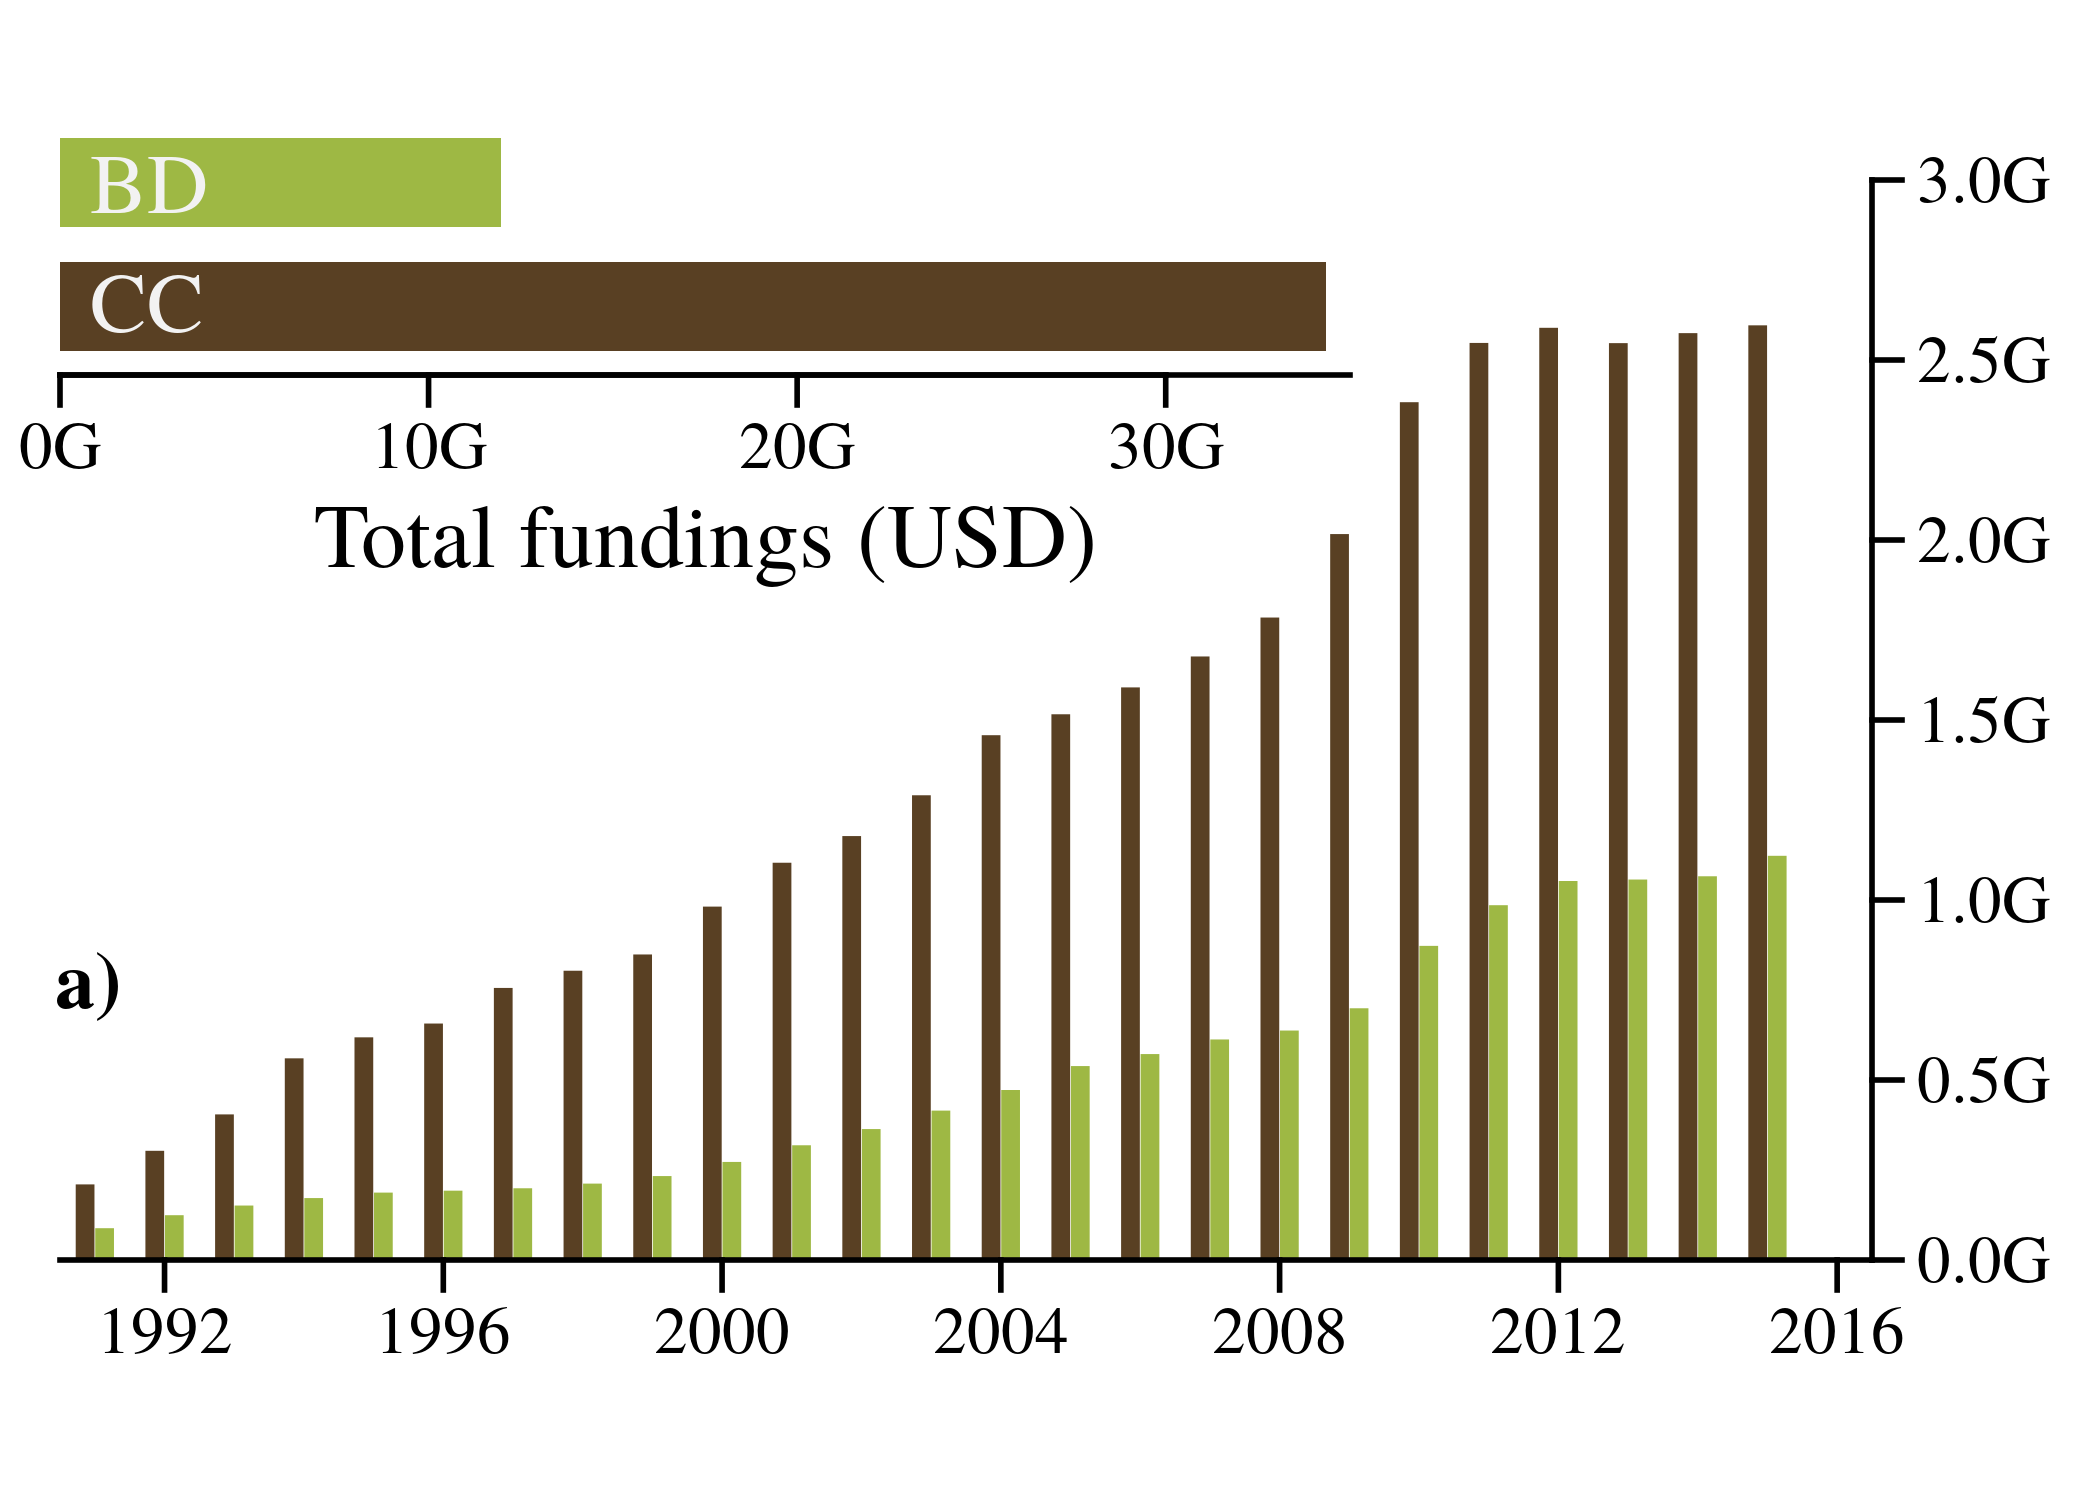
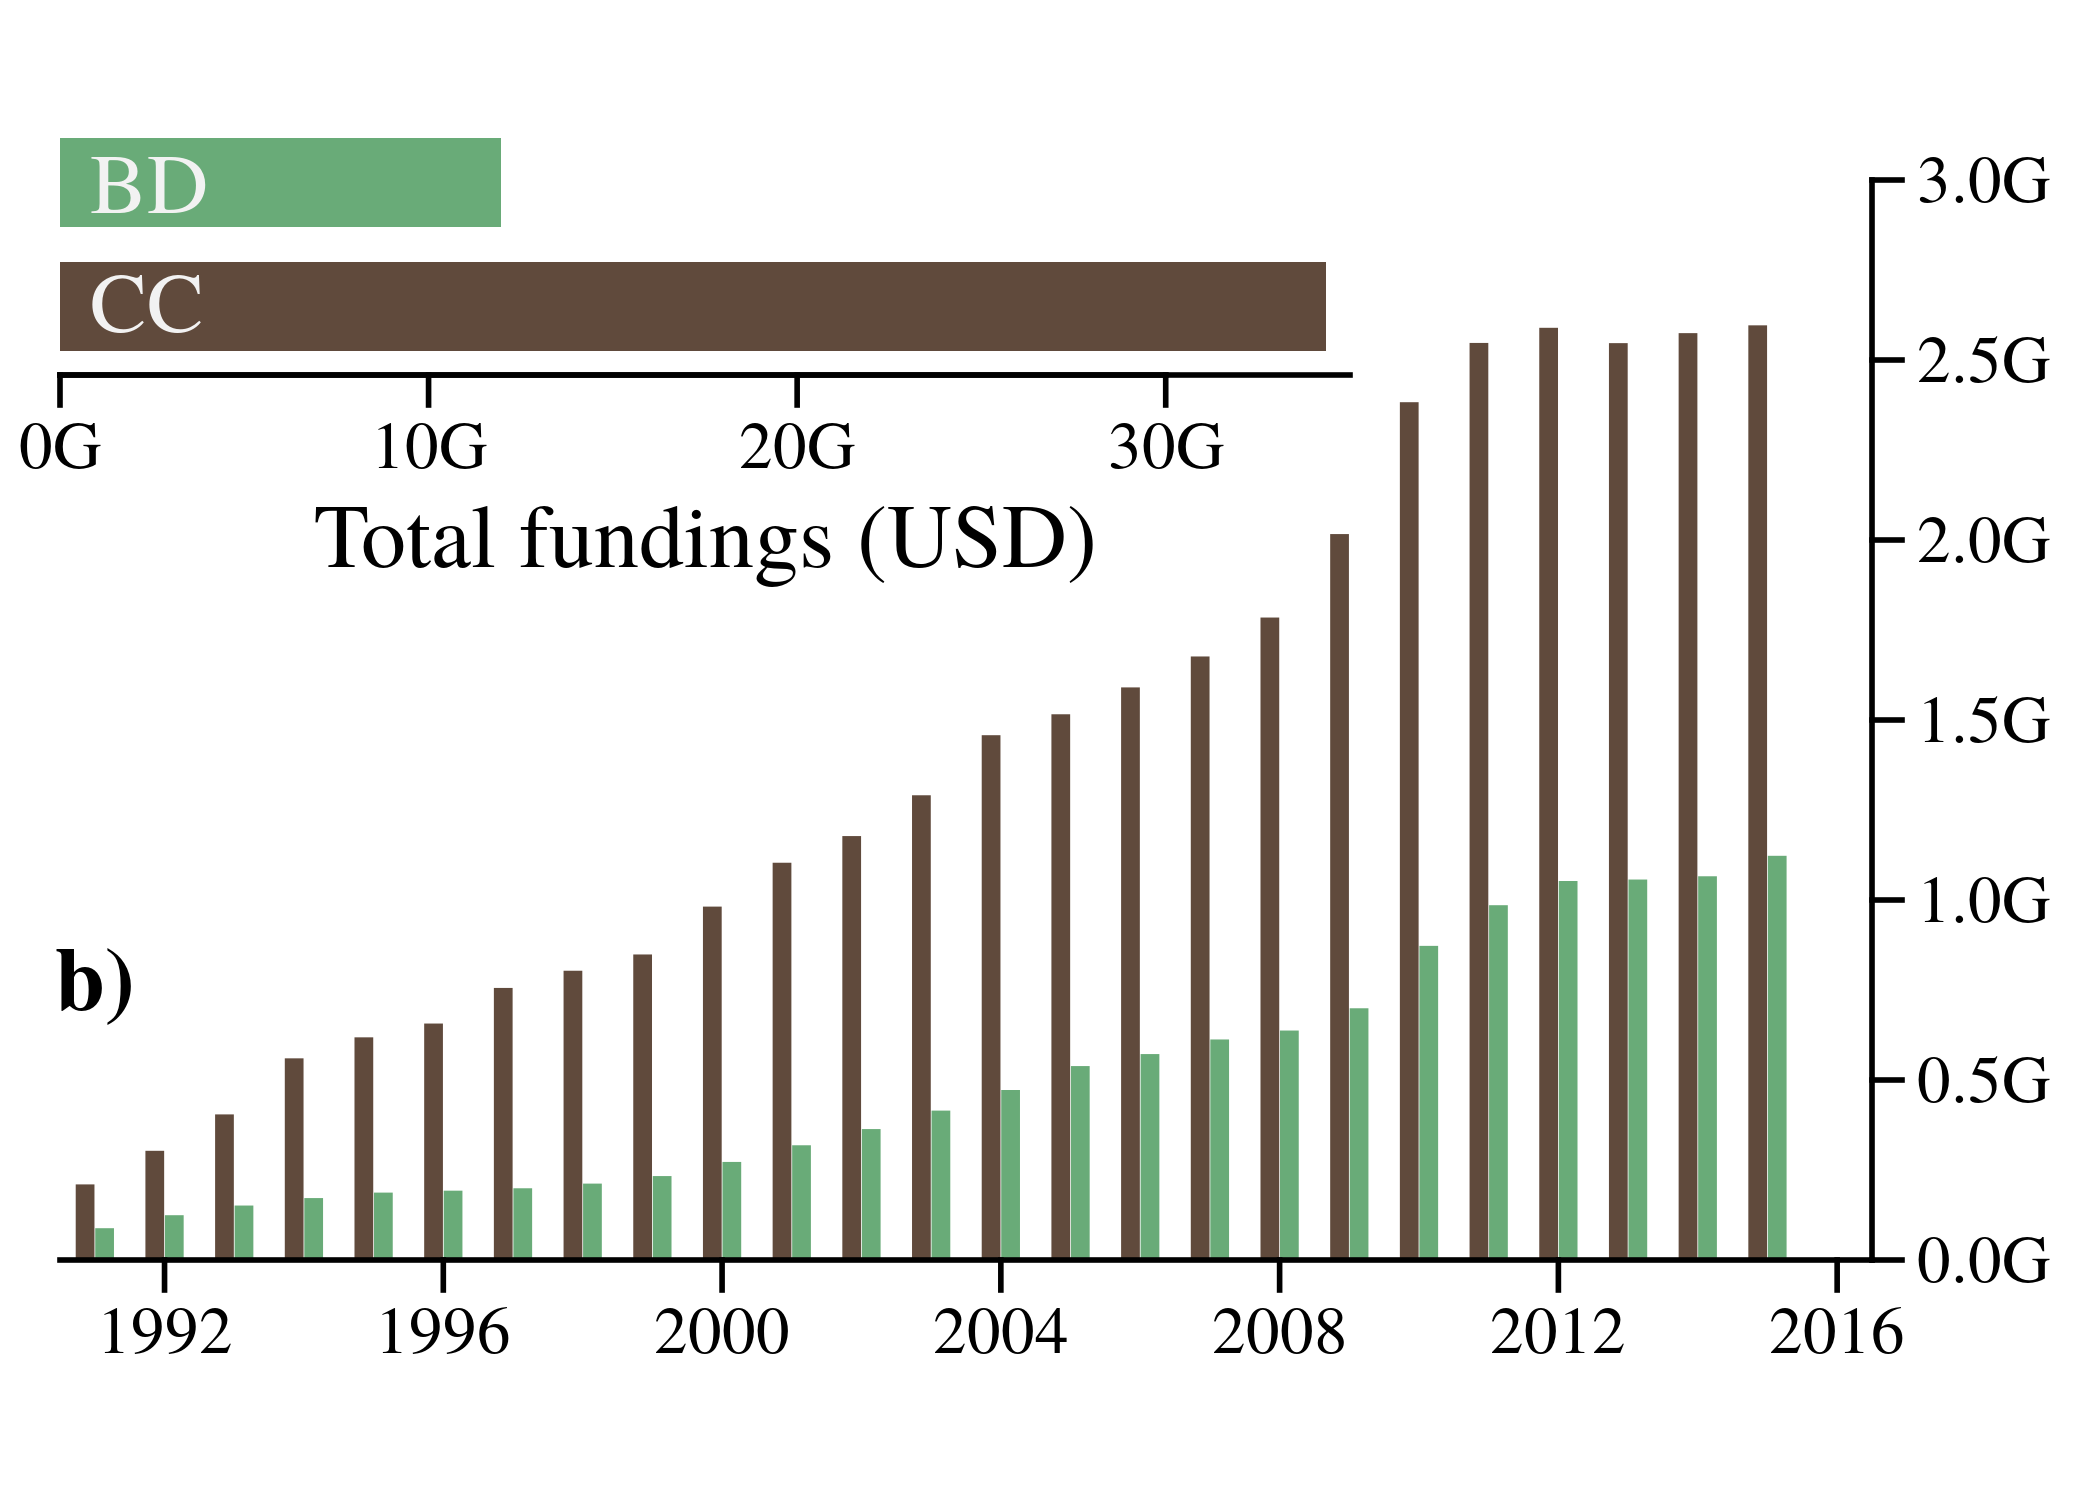
simplify newsPapers data and PB is now BD

Changed region(s): [[0.031, 0.2147, 0.8667, 0.8587], [0.031, 0.092, 0.65, 0.2453], [0.031, 0.6133, 0.0619, 0.6747]]

diff --git a/README.md b/README.md
@@ -9,8 +9,8 @@ To be added.
 
 ## Why this repository?
 
-This repository reproduces the figures found in XXXXXX.
-The reasons for using a standard R package are  twofold:
+This repository reproduces the figures found in XXXX.
+The reasons for using a standard R package are twofold:
 
 1- efficiently assessing the code quality of the code (here we simply use `R CMD check`)
 
@@ -45,6 +45,9 @@ grDevices::png('inst/fig/ms-figure1a.png', height = 5, width = 7, res = 300, uni
 grDevices::dev.off()
 ```
 
+<!-- ![](inst/fig/ms-figure1a.png) -->
+
+
 ### Figure 1b
 
 ```r
@@ -53,20 +56,21 @@ grDevices::png("inst/fig/ms-figure1b.png", height = 5, width = 7, res = 300, uni
   figure1b(
     fundingUSCAN$year,
     fundingUSCAN$CC_CA + fundingUSCAN$CC_US,
-    fundingUSCAN$PB_CA + fundingUSCAN$PB_US
+    fundingUSCAN$BD_CA + fundingUSCAN$BD_US,
+    col1 = "#604a3c", col2 = "#69ab78"
   )
 grDevices::dev.off()
 ```
 
-<!-- ![](inst/fig/ms-figure1a.png) -->
+<!-- ![](inst/fig/ms-figure1b.png) -->
 
 
 ### Figure 2
 
 ```r
-data(events); data(monthcan); data(monthusa); data(monthgbr)
+data(events); data(newsPapers);
 grDevices::png(file='inst/fig/ms-figure2.png', width = 8, height = 6, res = 300, unit = 'in')
-  figure2(events, monthcan, monthusa, monthgbr)
+  figure2(events, newsPapers, col1 = "#604a3c", col2 = "#69ab78")
 grDevices::dev.off()
 ```
 
@@ -77,7 +81,7 @@ grDevices::dev.off()
 
 - [X] add figure 1a;
 - [X] add figure 1b;
+- [X] change PB for BD;
 - [ ] review documentation (especially for data we should detail columns' content);
-- [ ] change PB for BD;
-- [ ] change font family;
+- [ ] change font family (if needed);
 - [ ] add a DOI to this repository once the paper is published.
